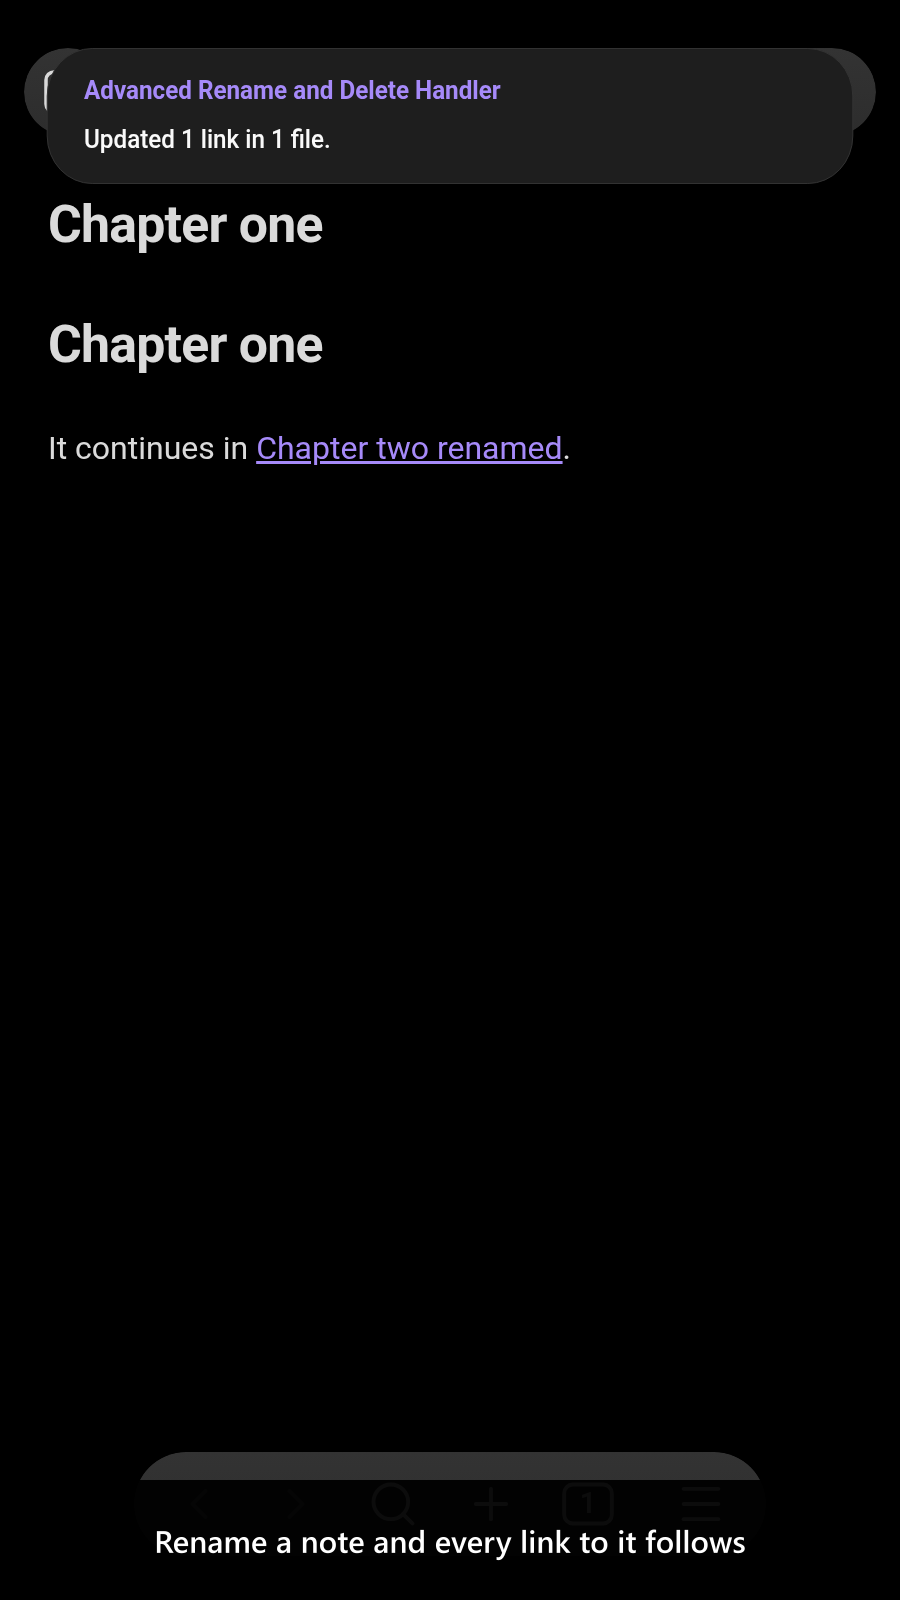
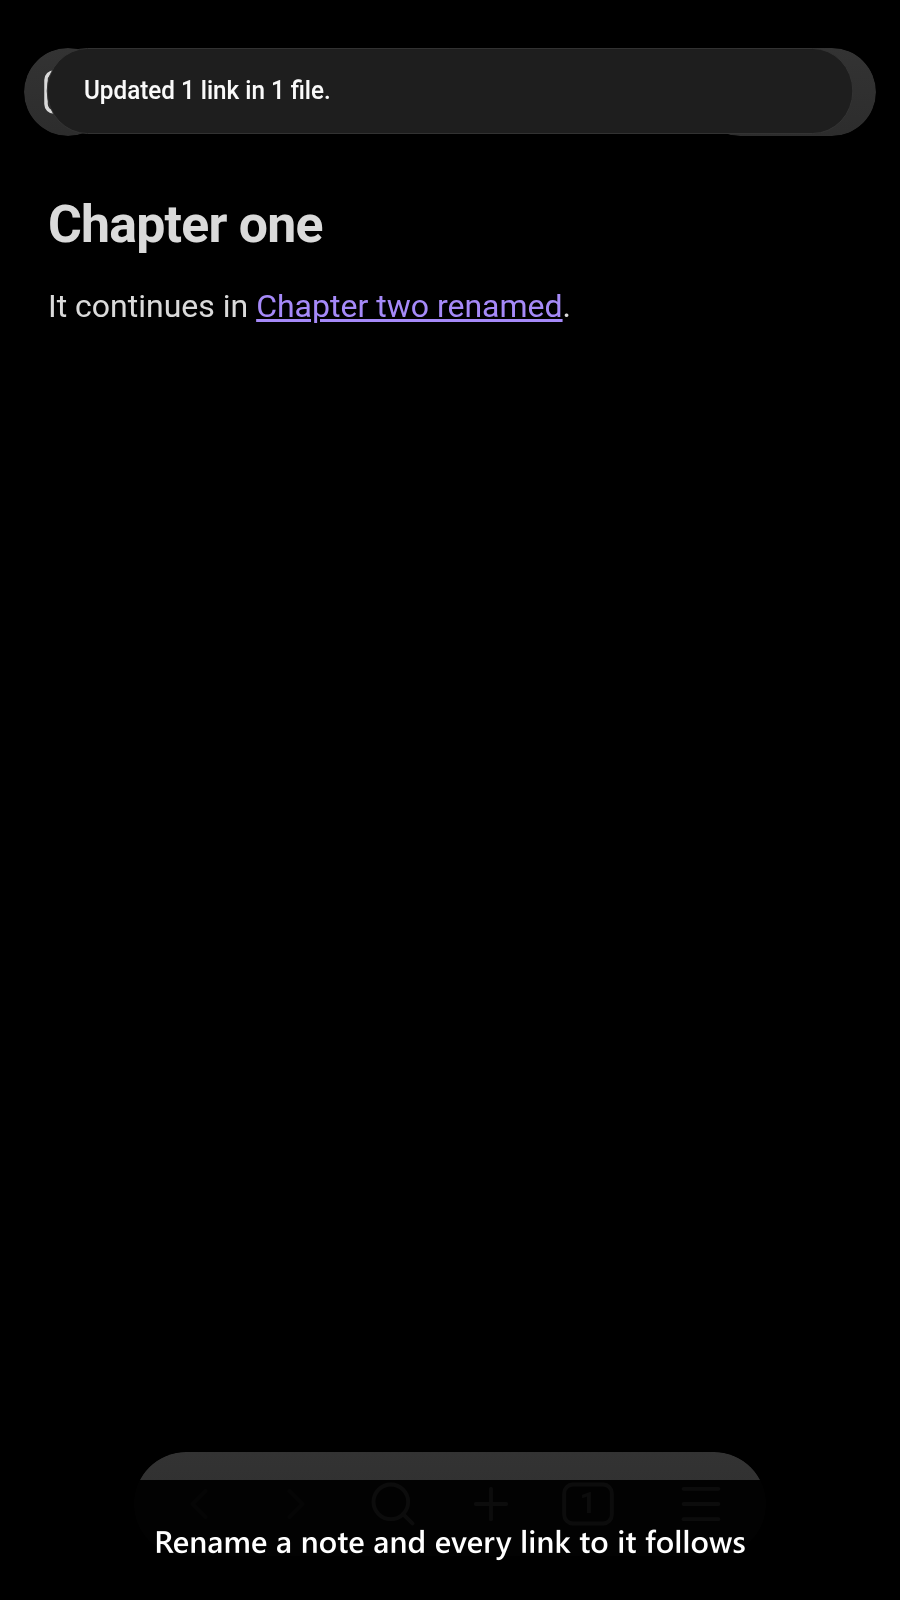
fix(screenshots): stop the mobile store frames photographing a toast and a doubled title
Both committed mobile frames described a plugin that no longer exists, and a
straight recapture made them worse rather than better.

The first-load notice is shown `isPermanent` and a capture always starts on a
temporary vault with no `data.json`, so it speaks on every run and never clears
itself. The desktop suite has dismissed it since its own recapture; the Android
suite had no dismissal, no assertion and no mention of it. On a 900x1600 frame
it does not merely overlap a corner, it displaces the layout: it covered the
panel title and the "Renames and moves" heading and pushed "Should delete
conflicting attachments" out of shot 1, and in shot 2 the note was gone from the
frame altogether, leaving two stacked notices over black under a caption
promising a link that follows a rename.

So the Android suite now takes the desktop treatment: the notice is removed in
the `beforeAll` closure that already existed, costing it no extra transport
budget, shot 1 asserts the corner is empty and shot 2 asserts the toast did not
come back. Shot 2 additionally asserts `activeFilePath`, which is what the
suite was missing when it shipped a frame with no note in it: the rename
succeeded, the link was rewritten, and every assertion the suite had still
passed with nothing on screen.

The staged notes also carried an H1 apiece, so shot 2 rendered "Chapter one"
twice - Obsidian's inline title and then the note's own heading - exactly as the
[…]

Changed region(s): [[0.0311, 0.0312, 0.9644, 0.125], [0.0311, 0.1875, 0.6222, 0.3125], [0.4356, 0.25, 0.6222, 0.3125]]

diff --git a/src/screenshots.android-capture.integration.test.ts b/src/screenshots.android-capture.integration.test.ts
@@ -24,13 +24,19 @@
  * not one of them names a version — the app is simply whatever APK the AVD carries, changed by
  * rebuilding the AVD rather than by configuration.
  *
- * So the desktop conclusion — that the capture is byte-stable once the Obsidian is pinned and the caret is
- * out of the frame — is NOT claimed for these two shots. It has not been measured on this host: the
- * `obsidian_screenshots` AVD wedges during Appium session creation and no Android capture run has reached a
- * shot since. If a run here ever rewrites a PNG, look at the frame before assuming it is noise;
- * the AVD's Obsidian moving is the first thing to rule out, and the caret the second — the desktop half
- * drops focus in its own `shoot` for exactly that reason, and nothing equivalent is done here because there
- * has been no run to measure it against.
+ * **These two shots ARE byte-stable on this host, and that is measured rather than assumed.** Three
+ * consecutive runs on 2026-09-23, each booting a fresh `obsidian_screenshots` emulator and tearing it down
+ * again, reproduced shot 1 byte for byte all three times and shot 2 byte for byte across the two runs that
+ * shared its staging. So a moved PNG here is signal, exactly as it is on the desktop side: look at the frame
+ * before reaching for `git checkout`. What is NOT pinned is the Obsidian, per the paragraph above, so the
+ * first thing to rule out is the AVD's APK having moved. The caret is the second and has never yet appeared
+ * in a frame here, which is why nothing equivalent to the desktop half's `blurEditor` is done — a phone
+ * screenshot is taken with the editor unfocused already.
+ *
+ * **The record here used to say the opposite, and it was wrong in both halves.** It said the AVD wedged
+ * during Appium session creation and that no Android capture run had reached a shot since. The committed
+ * frames were produced by a run — `e9b0e87`, 2026-08-29 — and each of the three runs above booted the AVD
+ * and finished in 87 to 167 seconds, cold. Nothing was done to the AVD to achieve that.
  */
 
 import {
@@ -55,6 +61,7 @@ import {
 } from 'vitest';
 
 interface RenameProbe {
+  readonly activeFilePath: null | string;
   readonly linkTextAfter: string;
   readonly noticeText: string;
 }
@@ -67,6 +74,7 @@ interface SettingsModalWithContainer {
 }
 
 interface SettingsProbe {
+  readonly noticeText: string;
   readonly settingNames: string[];
 }
 
@@ -77,6 +85,25 @@ const PLUGIN_ID = 'advanced-rename-and-delete-handler';
 const SOURCE_NOTE_PATH = 'Screenshots/Chapter one.md';
 const TARGET_NOTE_PATH = 'Screenshots/Chapter two.md';
 const RENAMED_TARGET_NOTE_PATH = 'Screenshots/Chapter two renamed.md';
+
+/**
+ * The first-load notice, which every capture run meets and neither frame here wants.
+ *
+ * `FirstLoadNoticeComponent` speaks once per vault, when there is no `data.json` to read — which is every
+ * run of this suite, because a capture always starts on a temporary vault. It is shown `isPermanent`, so
+ * unlike the rename notice it never clears itself.
+ *
+ * **On a phone it does not merely overlap a corner, it DISPLACES the layout, which is why the desktop copy's
+ * reasoning is not simply inherited.** Measured on the 2026-09-20 run that last rewrote these two frames: in
+ * shot 1 the notice covered the panel title and the *Renames and moves* heading and pushed the rows down far
+ * enough that *Should delete conflicting attachments* left the frame, under a caption promising every option
+ * in one place; in shot 2 the note was gone from the frame altogether, leaving the rename notice, this one
+ * below it, and black, under a caption promising a link that follows a rename. A 900-pixel-wide frame has no
+ * corner to spare.
+ *
+ * So `beforeAll` dismisses it, exactly as clicking it would, and both shots assert it did not come back.
+ */
+const FIRST_LOAD_NOTICE_TEXT = 'doing nothing yet';
 
 const IMAGES_DIRECTORY = join(process.cwd(), 'images', 'screenshots');
 
@@ -91,9 +118,20 @@ const SYNC_TIMEOUT_IN_MILLISECONDS = 60_000;
 beforeAll(async () => {
   const vault = getTemporaryVault();
 
+  /*
+   * NEITHER staged note carries an H1, and that is the composition rather than an oversight. Obsidian's
+   * inline title already renders the basename above the editor, so a `# Chapter one` line is a second copy
+   * of it one line lower — which shot 2, photographed on this source note, showed as `Chapter one` stacked
+   * on `Chapter one`, and which reads to a store visitor as a rendering bug in this plugin. The desktop
+   * suite stages its own pair and dropped the same two headings for the same reason; there the repeat was
+   * invisible until `blurEditor` took the caret out of the frame, because Live Preview keeps the raw `#`
+   * visible beside a caret on that line. Nothing equivalent is done here and nothing needs to be: a mobile
+   * frame has no caret in it, so the two lines rendered identically in every device capture this suite has
+   * produced. The subject of the frame is the rewritten link, not a heading.
+   */
   vault.populate({
-    [SOURCE_NOTE_PATH]: '# Chapter one\n\nIt continues in [Chapter two](<./Chapter two.md>).\n',
-    [TARGET_NOTE_PATH]: '# Chapter two\n\nThe note the link points at.\n'
+    [SOURCE_NOTE_PATH]: 'It continues in [Chapter two](<./Chapter two.md>).\n',
+    [TARGET_NOTE_PATH]: 'The note the link points at.\n'
   });
   await vault.syncToDevice();
 
@@ -127,6 +165,15 @@ beforeAll(async () => {
       // Otherwise Obsidian asks for confirmation through a modal, which a capture run cannot answer.
       app.vault.setConfig('alwaysUpdateLinks', true);
 
+      /*
+       * Every notice the load put on screen, which on a fresh vault is the permanent first-load one. Removed
+       * rather than waited out: it has no timeout to wait out. The settle below doubles as its repaint, so
+       * this costs the closure no extra budget, and both shots assert the frame is clear afterwards.
+       */
+      for (const noticeEl of document.querySelectorAll('.notice')) {
+        noticeEl.remove();
+      }
+
       await sleep(SETTLE_DELAY_IN_MILLISECONDS);
     },
     vaultPath: vaultPath()
@@ -138,6 +185,12 @@ describe('mobile store screenshots', () => {
     const probe = await openSettingsTab();
 
     expect(probe.settingNames).toContain('Should handle renames');
+
+    /*
+     * Nothing is toasting over the panel. Stricter than "not the first-load notice" on purpose: this frame is
+     * the settings tab and nothing else, so ANY notice in it is a frame the caption does not describe.
+     */
+    expect(probe.noticeText).toBe('');
     await shoot(1, 'Every rename and delete option, in one place');
   });
 
@@ -146,6 +199,17 @@ describe('mobile store screenshots', () => {
 
     expect(probe.noticeText).toContain('Updated');
     expect(probe.linkTextAfter).toContain('renamed');
+
+    // And the rename notice is the ONLY one — the first-load toast stacked directly under it in this frame.
+    expect(probe.noticeText).not.toContain(FIRST_LOAD_NOTICE_TEXT);
+
+    /*
+     * The rewritten link has to be BEHIND the notice, or the frame is a toast over nothing and the caption is
+     * unsupported. Nothing else here checks what the capture is pointed at: the rename would still succeed,
+     * and every assertion above would still pass, with no note on screen at all — which is precisely the
+     * frame the 2026-09-20 run produced.
+     */
+    expect(probe.activeFilePath).toBe(SOURCE_NOTE_PATH);
     await shoot(2, 'Rename a note and every link to it follows');
   });
 });
@@ -190,6 +254,7 @@ async function openSettingsTab(): Promise<SettingsProbe> {
       await sleep(SETTLE_DELAY_IN_MILLISECONDS);
 
       return {
+        noticeText: [...document.querySelectorAll('.notice')].map((notice) => notice.textContent).join(' '),
         settingNames: [...document.querySelectorAll('.setting-item-name')].map((name) => name.textContent)
       };
     },
@@ -261,6 +326,7 @@ async function renameTargetAndReadResult(): Promise<RenameProbe> {
       await sleep(SETTLE_DELAY_IN_MILLISECONDS);
 
       return {
+        activeFilePath: app.workspace.getActiveFile()?.path ?? null,
         linkTextAfter: await app.vault.read(source),
         noticeText: [...document.querySelectorAll('.notice')].map((notice) => notice.textContent).join(' ')
       };

diff --git a/AGENTS.md b/AGENTS.md
@@ -135,5 +135,5 @@ Emptiness is re-checked against the DISK, not the index — `cleanupEmptyFolders
 - **The combined-backlinks rewrite runs on the library's `editBacklinksSnapshot`, and that is NOT a step back toward re-merging the component.** The fork owns the *policy* — `getLinkIdentityKey` (text-only, so it stays valid across the awaits between capture and rewrite), the `Map<newBacklinkPath, Map<linkKey, oldTargetPath>>` shape, merging a resumed rename's snapshot in, the issue-#60 debug line, and the `renamedFilePaths` / `renamedLinks` bookkeeping. What moved to the library is only the *mechanism*: walk a captured snapshot and open each holder once. The seams that let the fork keep its policy are `linkIdentityKeyProvider` and `shouldVisitUnmatchedLinks`; both exist because this copy needed them. So importing a link primitive is the same kind of dependency as importing `updateLink` — it does not reopen the "a fix here is NOT ported there" decision above, which is about the component and still stands.
 - **English-only, with no `i18next`.** The copied handler's translation calls became plain template literals, and the plural forms `i18next` used to supply became `src/pluralize.ts` — its own module because the handler is excluded from coverage wholesale and that function is not. A plugin that later needs translations reinstates `t` from `obsidian-dev-utils/obsidian/i18n/i18n` AND an `src/i18n/i18next.d.ts` augmenting `CustomTypeOptions` — the library's `t` alone does not type-check the selector form, because the augmentation lives in the `obsidian-dev-utils` compilation rather than its published types.
 - **The integration projects seed `obsidian-dev-utils`' integration-test harness plugin alongside the plugin under test**, so an `evalInObsidian` closure reaches the whole library surface as `lib.<helper>` rather than only the harness's own helpers. The suppression suites need `lib.ResourceLockComponent` and `lib.flushQueue` to stage a foreign locked transaction and drain the handler's queue. Wired in two ways, because the projects do not share one path: `scripts/vitest-config.ts`'s `editContext` gives every project the `obsidian-dev-utils/integration-test-setup` setup file, and points `desktop` and `android` at `obsidian-dev-utils/integration-test-vitest-global-setup`, where the global setup **replaces** `obsidian-integration-testing/vitest-global-setup-plugin` (it does everything that one does, plus the seeding — listing both would create the vault twice). The two projects that bring their own `populate` — `integration-tests:demo-vault` and `integration-tests:desktop-performance` — keep their own `globalSetup` (`scripts/demo-vault-global-setup.ts`, `scripts/vitest-global-setup-performance.ts`) and compose `getIntegrationTestPluginPopulate()` and `OBSIDIAN_DEV_UTILS_INTEGRATION_TEST_PLUGIN_ID` in by hand instead. Seeding the harness needs `obsidian-dev-utils` at 96.5.1 or above: earlier bundles pulled `adm-zip` in eagerly, whose top-level `require('crypto')` throws on mobile and aborts the whole `integration-tests:android` project's setup.
-- **The screenshot-capture project PINS the Obsidian it photographs; the regular test projects do not.** `capture-screenshots:desktop` in `scripts/vitest-config.ts` sets `obsidianVersion: 'public-latest'`, overriding the `OBSIDIAN_VERSION` escape hatch `obsidian-dev-utils` honours elsewhere. Without it the listing is photographed against whatever asar the harness happens to provision, and the frames silently re-chrome: `npm run capture:screenshots` rewrote shots 2 and 3 on every run of an unchanged plugin, which read like nondeterminism and was tracked as one. It was not. Measured 2026-09-03: adding the pin made shots 2 and 3 reproduce their committed bytes exactly. The dominant cause was the harness having moved on to the Catalyst `obsidian-1.14.0.asar`, whose chrome left-aligns the breadcrumb and tightens the ribbon spacing, against frames taken on the public line; restoring them from git on each run rather than committing a recapture left that difference in place indefinitely. A second, far smaller cause sat underneath it: with the pin in place shot 3 still moved occasionally, by exactly 33 pixels in a 1px-wide column at x=265, y=170..202 — the editor caret beside the heading, caught on the other half of its blink — which `shoot` now removes by dropping focus before the shutter (`blurEditor`, which explains why focus is dropped rather than the caret hidden). With both fixed the capture is byte-stable across runs. **So a dirty `images/screenshots/` after a capture is signal here** — either this plugin's own UI changed, which is the likelier of the two and the reason to capture after a feature lands, or the public line has moved and the listing is being re-photographed on it. Look at the frame before reaching for `git checkout`. Shipping the no-op defaults and the first-load notice moved shots 1 and 2 exactly that way, while no capture was being run, so the committed pair described a plugin that no longer existed; the suite now dismisses that permanent first-load toast before any frame, and shots 1 and 2 assert the corner stayed clear. There is deliberately no installer pin: `obsidian-app-update-notifier` freezes `obsidianInstallerVersion` because its frame must show the installer behind, and no frame here reads the installer version at all. The Android half takes no pin either — `ObsidianAndroidAppiumTransportOptions` exposes twenty options and none names a version, so the mobile app is whatever APK the AVD carries.
-- **The staged notes the desktop frames are photographed on carry NO H1, and that is a composition decision rather than an omission.** Obsidian's inline title already renders the basename above the editor, so a `# Chapter one` line inside the note is a second copy of it one line lower — and shots 2 and 3, both photographed on the same staged `Screenshots/Chapter one.md`, showed `Chapter one` stacked on `Chapter one`, which reads to a store visitor as a rendering bug in this plugin rather than as staging. It was invisible until `blurEditor` took the caret out of the frame, because Live Preview keeps the raw `#` visible beside a caret on that line and the two lines then render differently. The repeat was recorded and deferred twice on the grounds that changing the staging changes what the listing says; that is true, and the answer is that the subject of both frames is the rewritten link and the notice, not a heading. The Android suite stages its own pair, still carries the H1, and its committed frames still show the repeat — the fix there is the same one line plus a device recapture, which has to happen together.
+- **The screenshot-capture project PINS the Obsidian it photographs; the regular test projects do not.** `capture-screenshots:desktop` in `scripts/vitest-config.ts` sets `obsidianVersion: 'public-latest'`, overriding the `OBSIDIAN_VERSION` escape hatch `obsidian-dev-utils` honours elsewhere. Without it the listing is photographed against whatever asar the harness happens to provision, and the frames silently re-chrome: `npm run capture:screenshots` rewrote shots 2 and 3 on every run of an unchanged plugin, which read like nondeterminism and was tracked as one. It was not. Measured 2026-09-03: adding the pin made shots 2 and 3 reproduce their committed bytes exactly. The dominant cause was the harness having moved on to the Catalyst `obsidian-1.14.0.asar`, whose chrome left-aligns the breadcrumb and tightens the ribbon spacing, against frames taken on the public line; restoring them from git on each run rather than committing a recapture left that difference in place indefinitely. A second, far smaller cause sat underneath it: with the pin in place shot 3 still moved occasionally, by exactly 33 pixels in a 1px-wide column at x=265, y=170..202 — the editor caret beside the heading, caught on the other half of its blink — which `shoot` now removes by dropping focus before the shutter (`blurEditor`, which explains why focus is dropped rather than the caret hidden). With both fixed the capture is byte-stable across runs. **So a dirty `images/screenshots/` after a capture is signal here** — either this plugin's own UI changed, which is the likelier of the two and the reason to capture after a feature lands, or the public line has moved and the listing is being re-photographed on it. Look at the frame before reaching for `git checkout`. Shipping the no-op defaults and the first-load notice moved shots 1 and 2 exactly that way, while no capture was being run, so the committed pair described a plugin that no longer existed; the suite now dismisses that permanent first-load toast before any frame, and shots 1 and 2 assert the corner stayed clear. There is deliberately no installer pin: `obsidian-app-update-notifier` freezes `obsidianInstallerVersion` because its frame must show the installer behind, and no frame here reads the installer version at all. The Android half takes no pin either — `ObsidianAndroidAppiumTransportOptions` exposes twenty options and none names a version, so the mobile app is whatever APK the AVD carries. **It is nevertheless byte-stable, measured 2026-09-23**: three consecutive runs, each on a freshly booted `obsidian_screenshots` emulator, reproduced shot 1 byte for byte all three times and shot 2 byte for byte across the two runs sharing its staging. Its suite dismisses the first-load toast and asserts the corner stayed clear exactly as the desktop one does, and it additionally asserts `activeFilePath`, because the mobile frame that shipped in 2026-09-20's run had the note missing from it altogether and every assertion the suite then had still passed. So a moved mobile PNG is signal too, with one extra suspect ahead of the desktop list: the AVD's APK, which nothing pins.
+- **The staged notes the desktop frames are photographed on carry NO H1, and that is a composition decision rather than an omission.** Obsidian's inline title already renders the basename above the editor, so a `# Chapter one` line inside the note is a second copy of it one line lower — and shots 2 and 3, both photographed on the same staged `Screenshots/Chapter one.md`, showed `Chapter one` stacked on `Chapter one`, which reads to a store visitor as a rendering bug in this plugin rather than as staging. It was invisible until `blurEditor` took the caret out of the frame, because Live Preview keeps the raw `#` visible beside a caret on that line and the two lines then render differently. The repeat was recorded and deferred twice on the grounds that changing the staging changes what the listing says; that is true, and the answer is that the subject of both frames is the rewritten link and the notice, not a heading. The Android suite staged its own pair carrying the same H1, and shipped the same repeat; both lines were dropped and the two frames recaptured on the AVD on 2026-09-23, in one sitting because they had to be — the committed PNGs are what the store shows, so a staging edit landed without a recapture leaves the suite's source and its own frames disagreeing with nothing asserting it.
